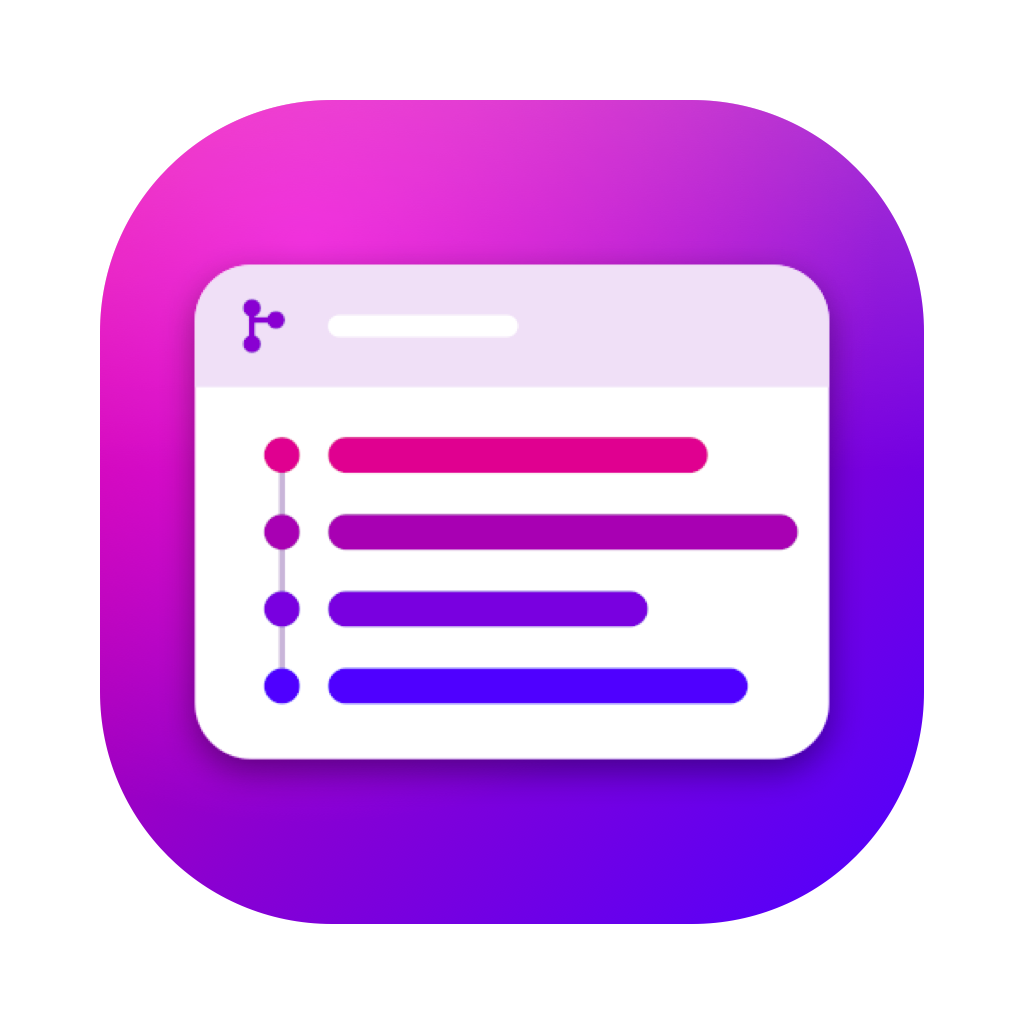
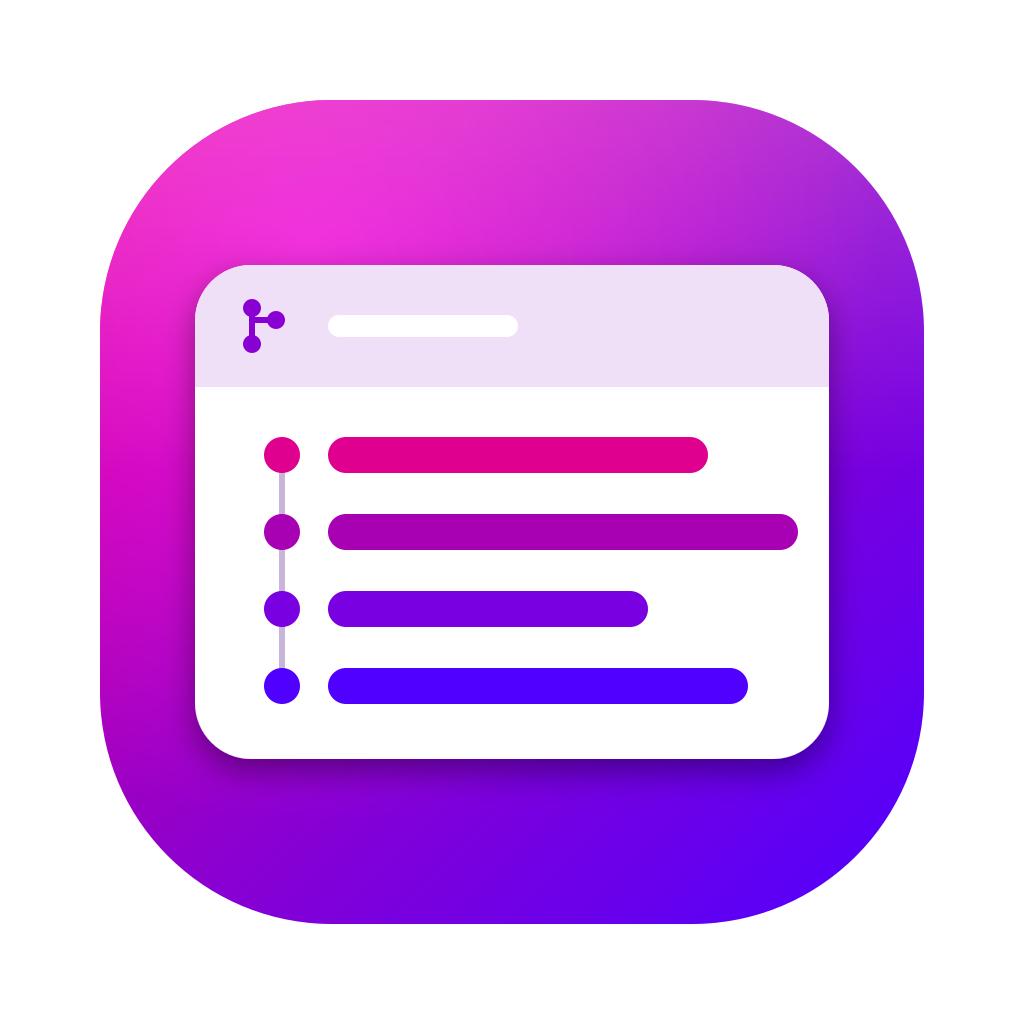
Release 0.1.4

Changed region(s): [[0.75, 0.5, 0.7812, 0.5312]]

diff --git a/CHANGELOG.md b/CHANGELOG.md
@@ -2,7 +2,7 @@
 
 All notable changes to the Line History extension.
 
-## Unreleased
+## [0.1.4] — 2026-05-20
 
 First Marketplace release.
 